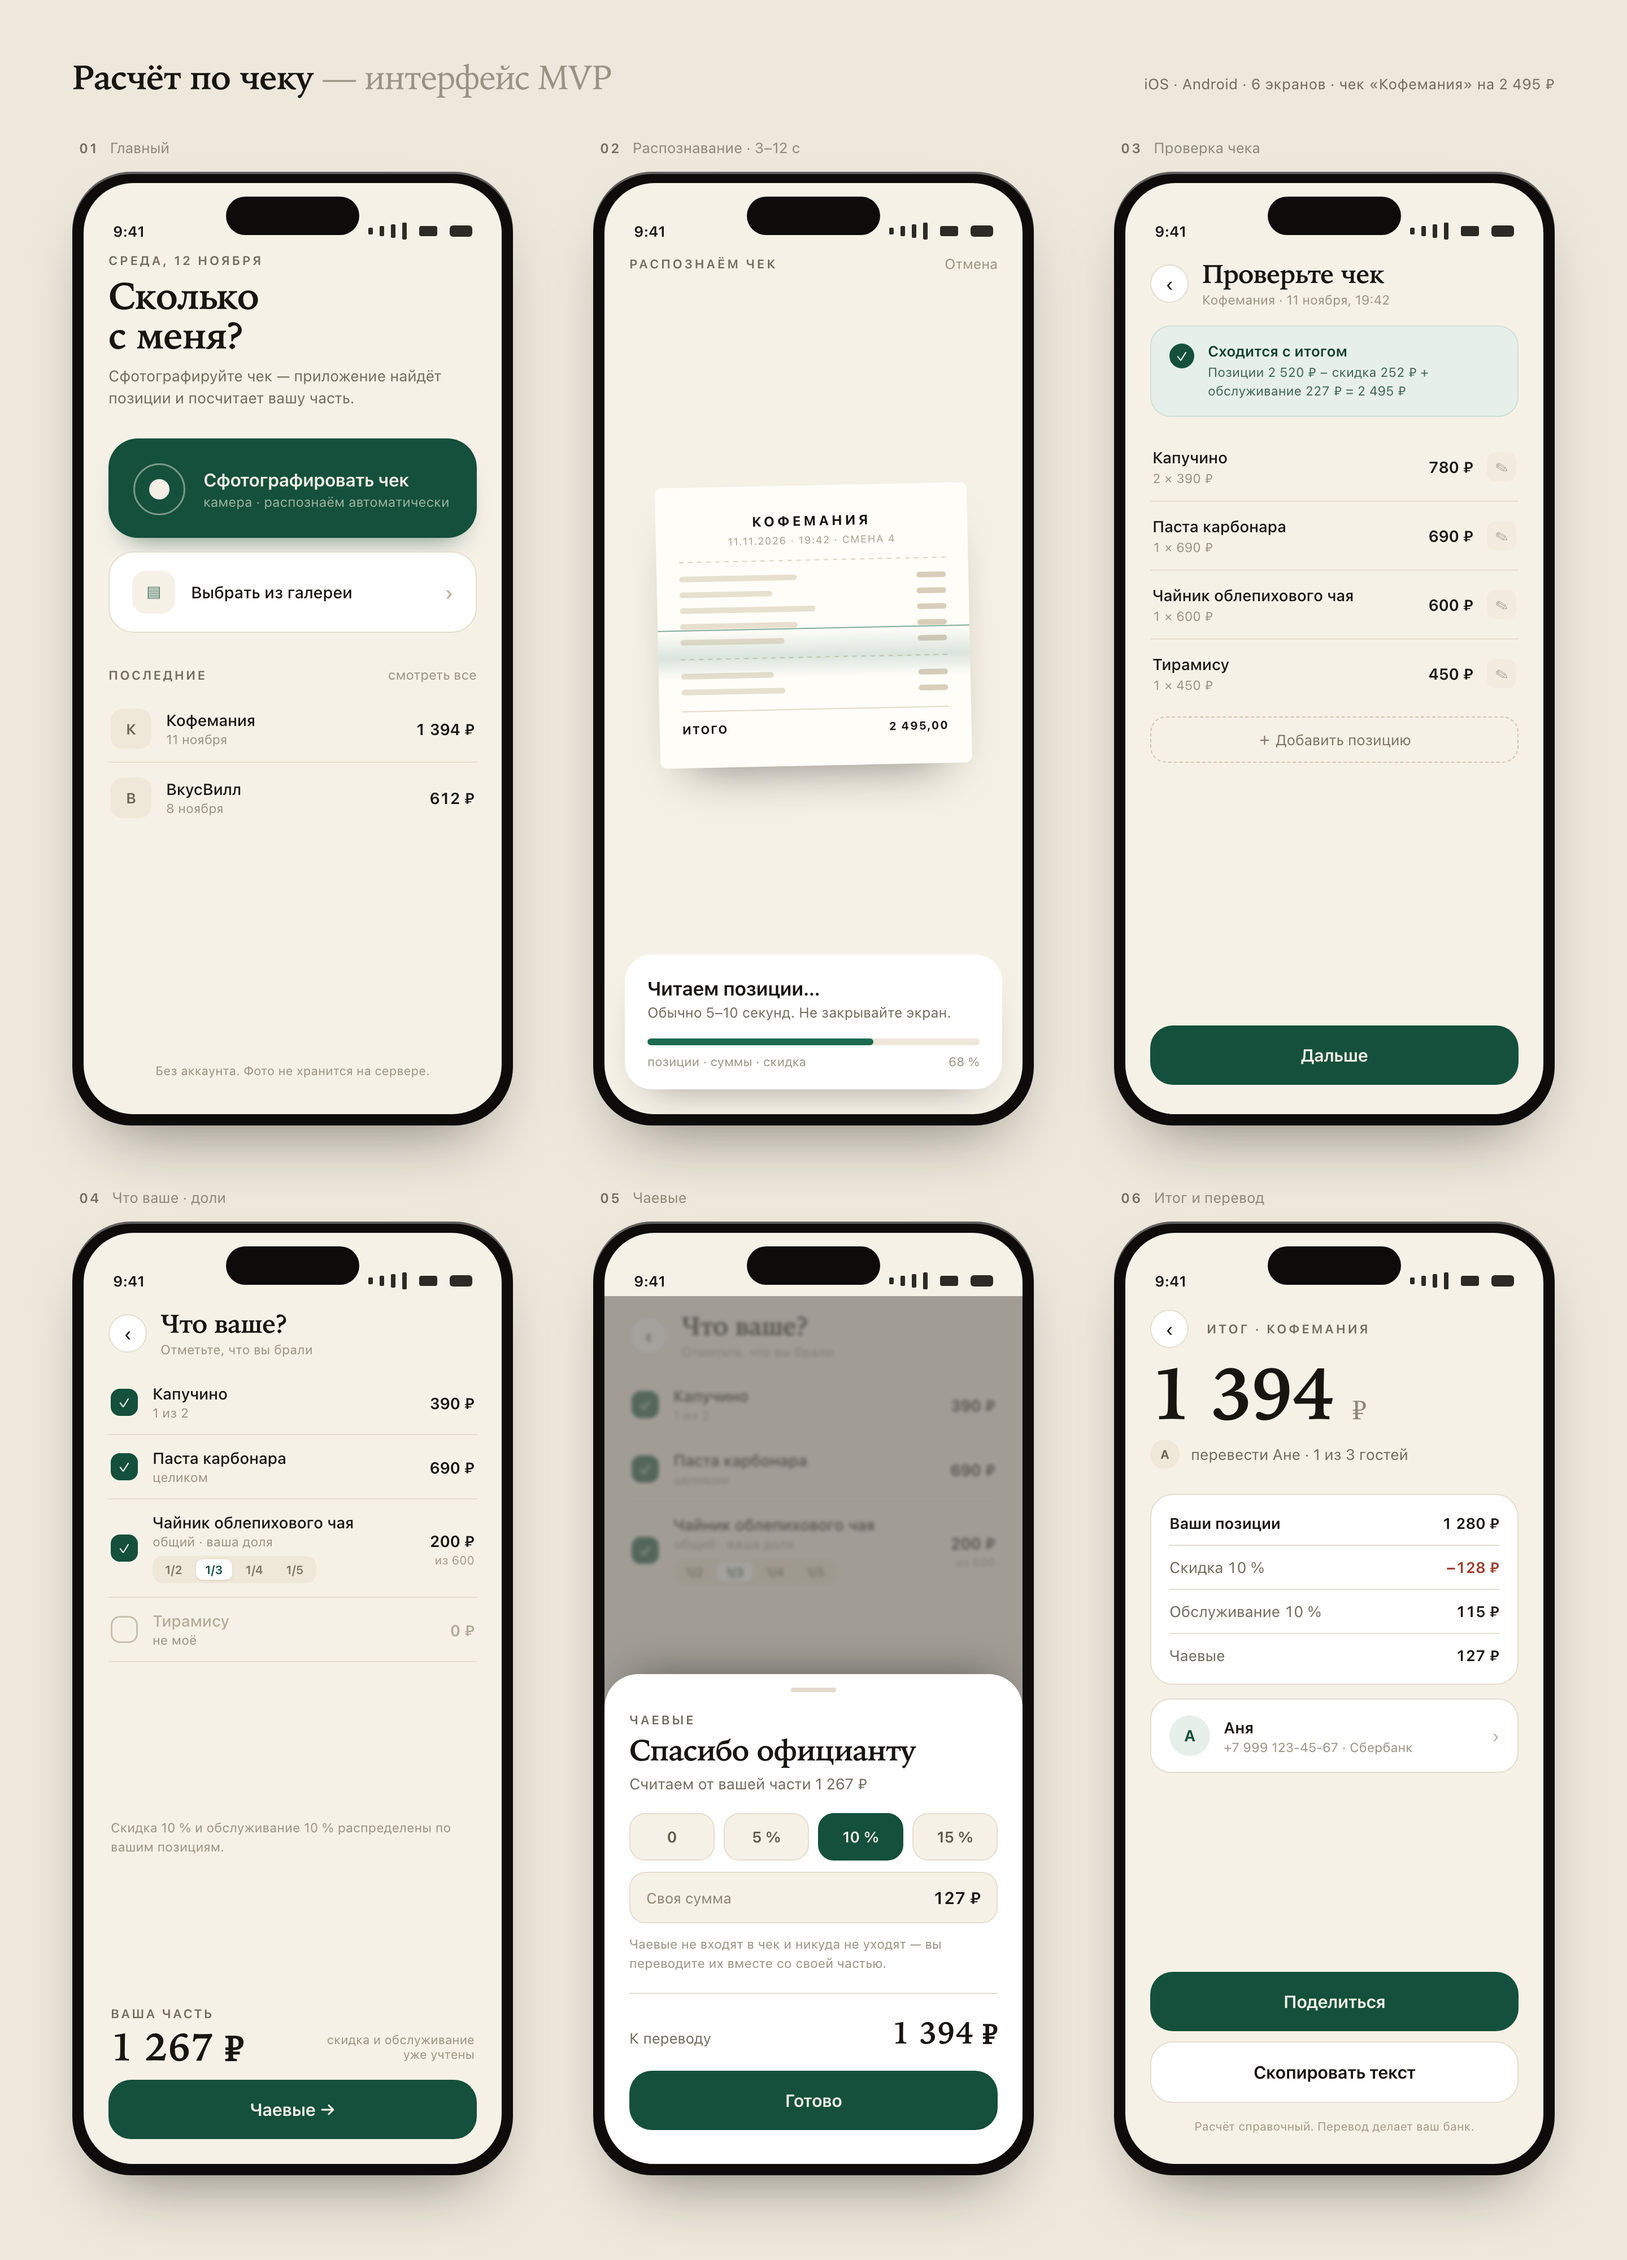
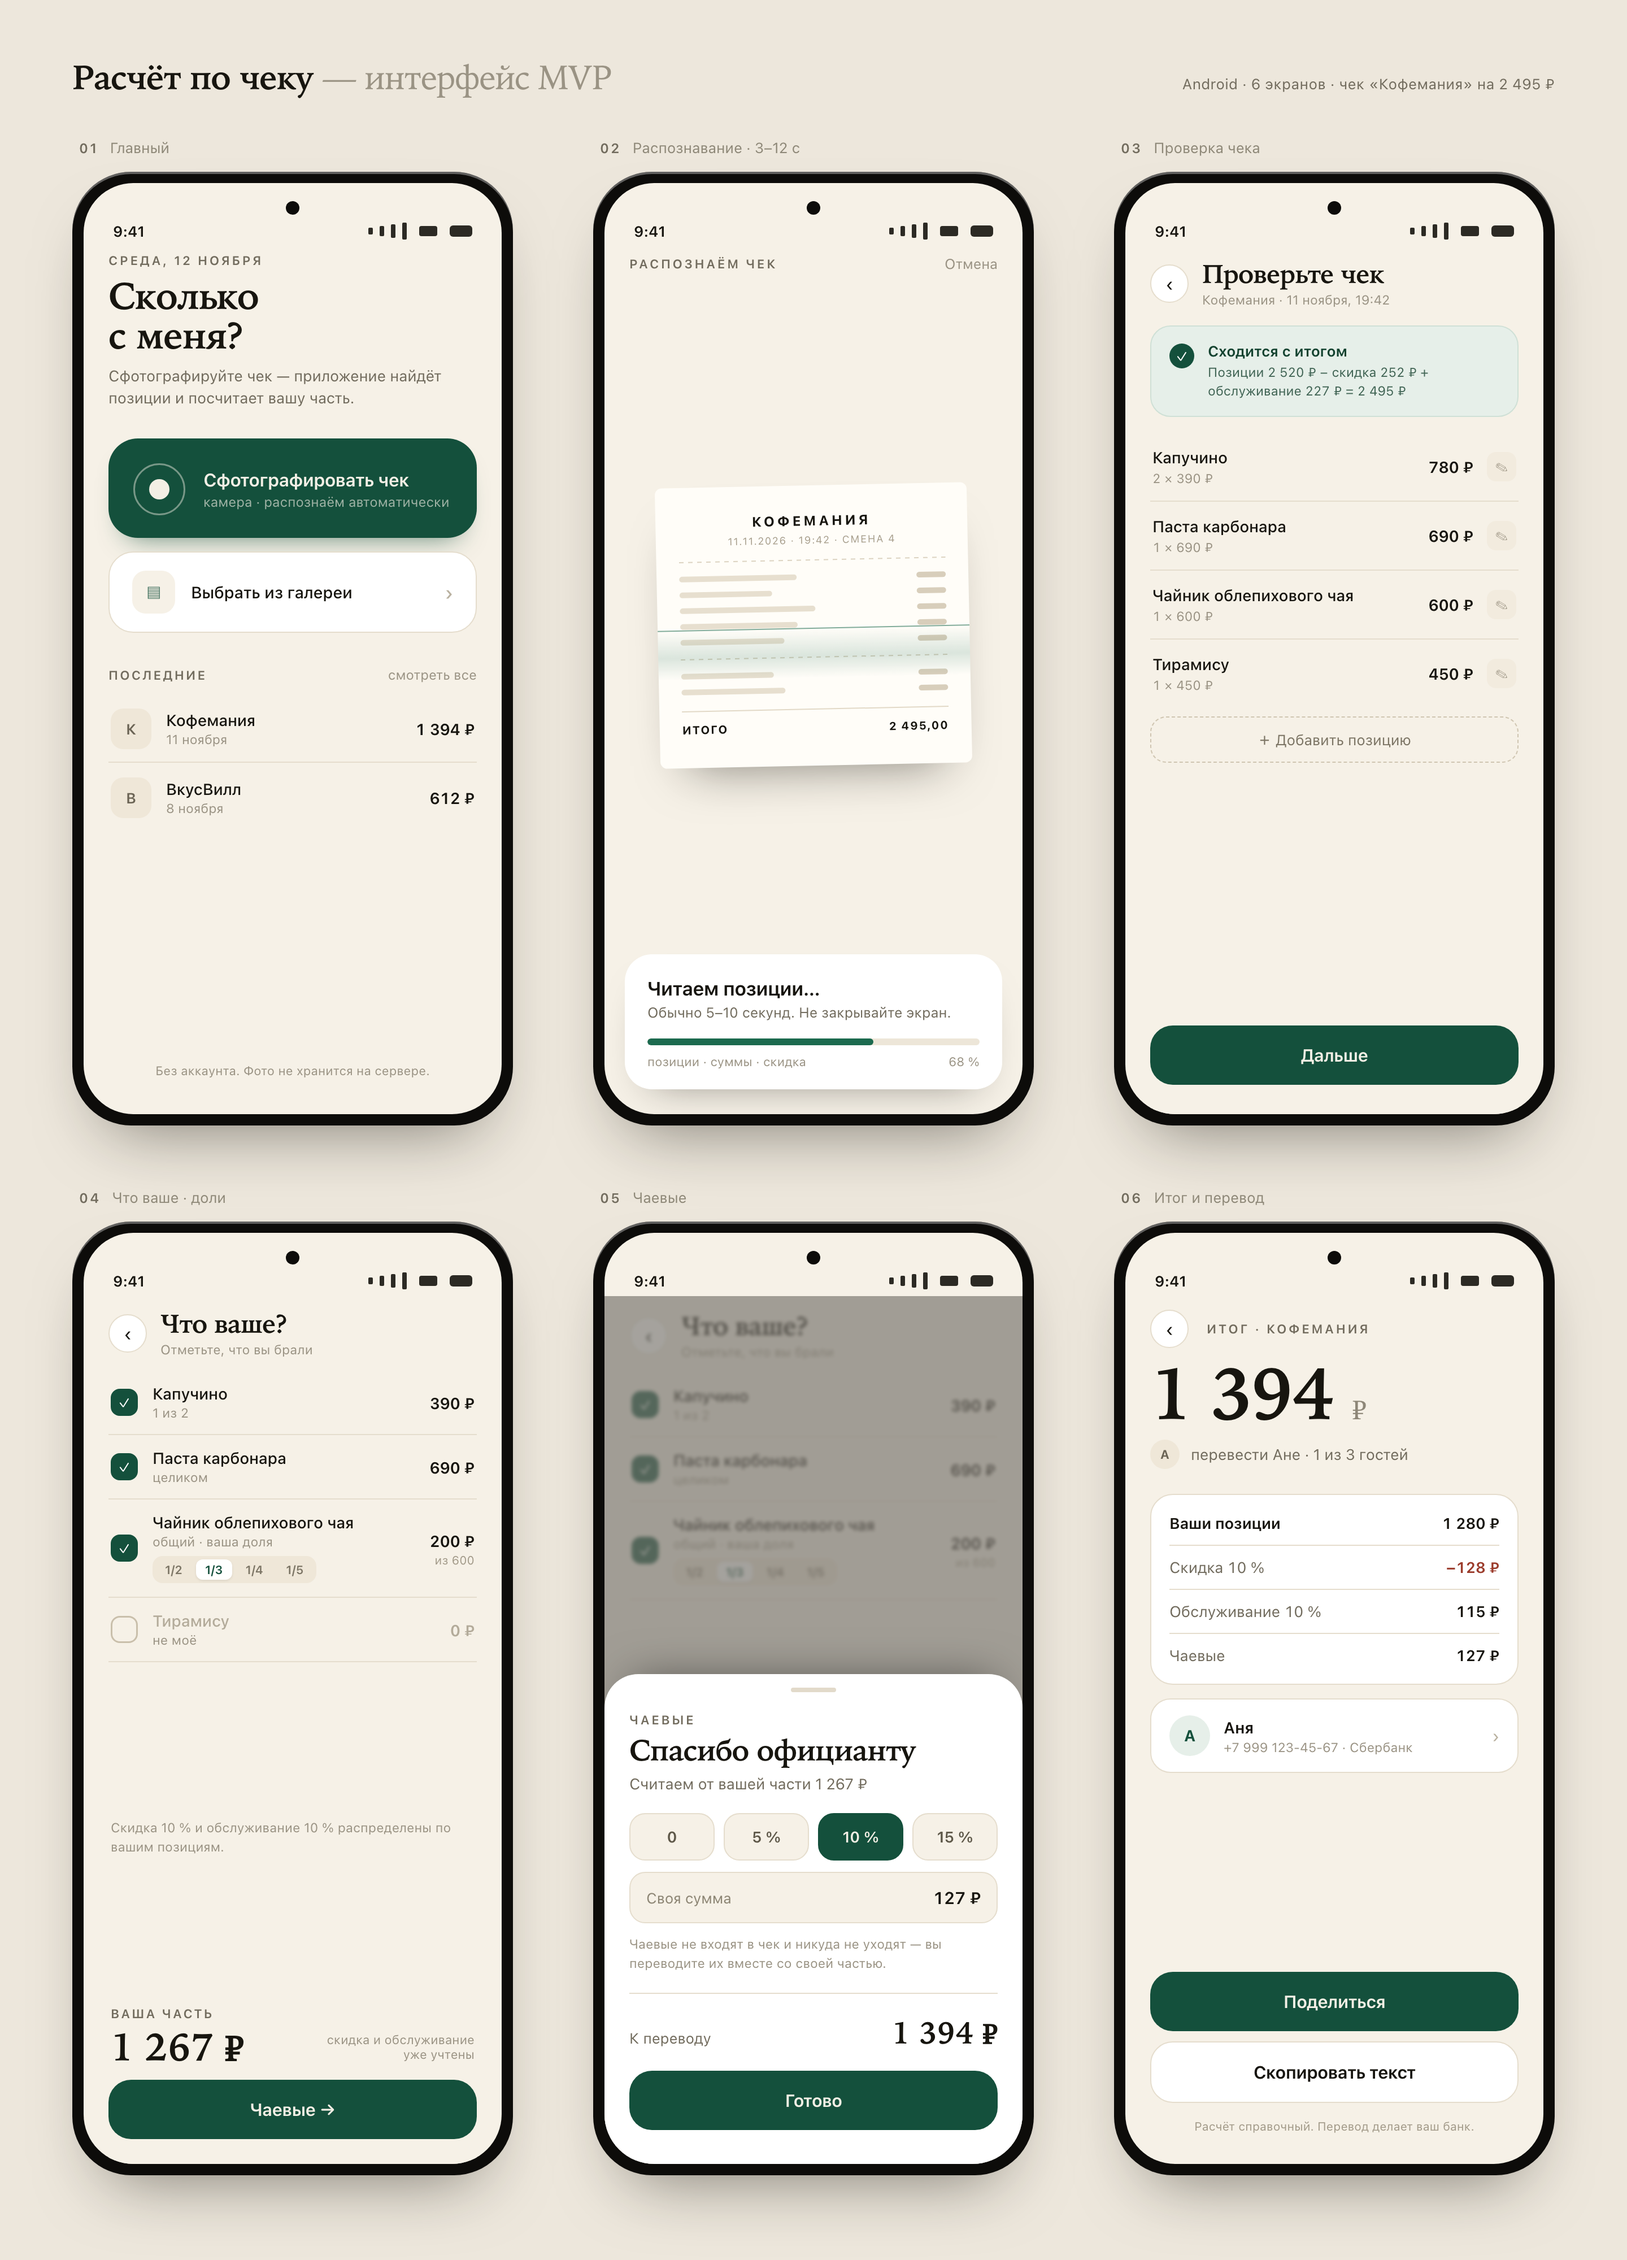
docs: только Android — спека 0.2 и макет под Android
Kotlin + Jetpack Compose вместо Flutter, iOS вне проекта.

diff --git a/docs/mockups/interface.html b/docs/mockups/interface.html
@@ -43,7 +43,7 @@
     position:relative;width:100%;height:100%;border-radius:44px;overflow:hidden;
     background:var(--paper);display:flex;flex-direction:column;
   }
-  .island{position:absolute;top:12px;left:50%;transform:translateX(-50%);width:118px;height:34px;border-radius:20px;background:#0D0C0A;z-index:20}
+  .island{position:absolute;top:16px;left:50%;transform:translateX(-50%);width:12px;height:12px;border-radius:50%;background:#0D0C0A;z-index:20}
   .status{height:56px;flex:none;display:flex;align-items:flex-end;justify-content:space-between;padding:0 26px 6px;font-size:13px;font-weight:600;letter-spacing:.01em;z-index:10;position:relative}
   .status .icons{display:flex;gap:6px;align-items:center;opacity:.9}
   .bar{display:inline-block;background:currentColor;border-radius:1px}
@@ -188,7 +188,7 @@
 <body>
 <div class="pagehead">
   <div class="serif" style="font-size:30px;font-weight:600">Расчёт по чеку <span style="color:#9A9384;font-weight:400">— интерфейс MVP</span></div>
-  <div class="sub">iOS · Android · 6 экранов · чек «Кофемания» на 2 495 ₽</div>
+  <div class="sub">Android · 6 экранов · чек «Кофемания» на 2 495 ₽</div>
 </div>
 
 <div class="grid">
